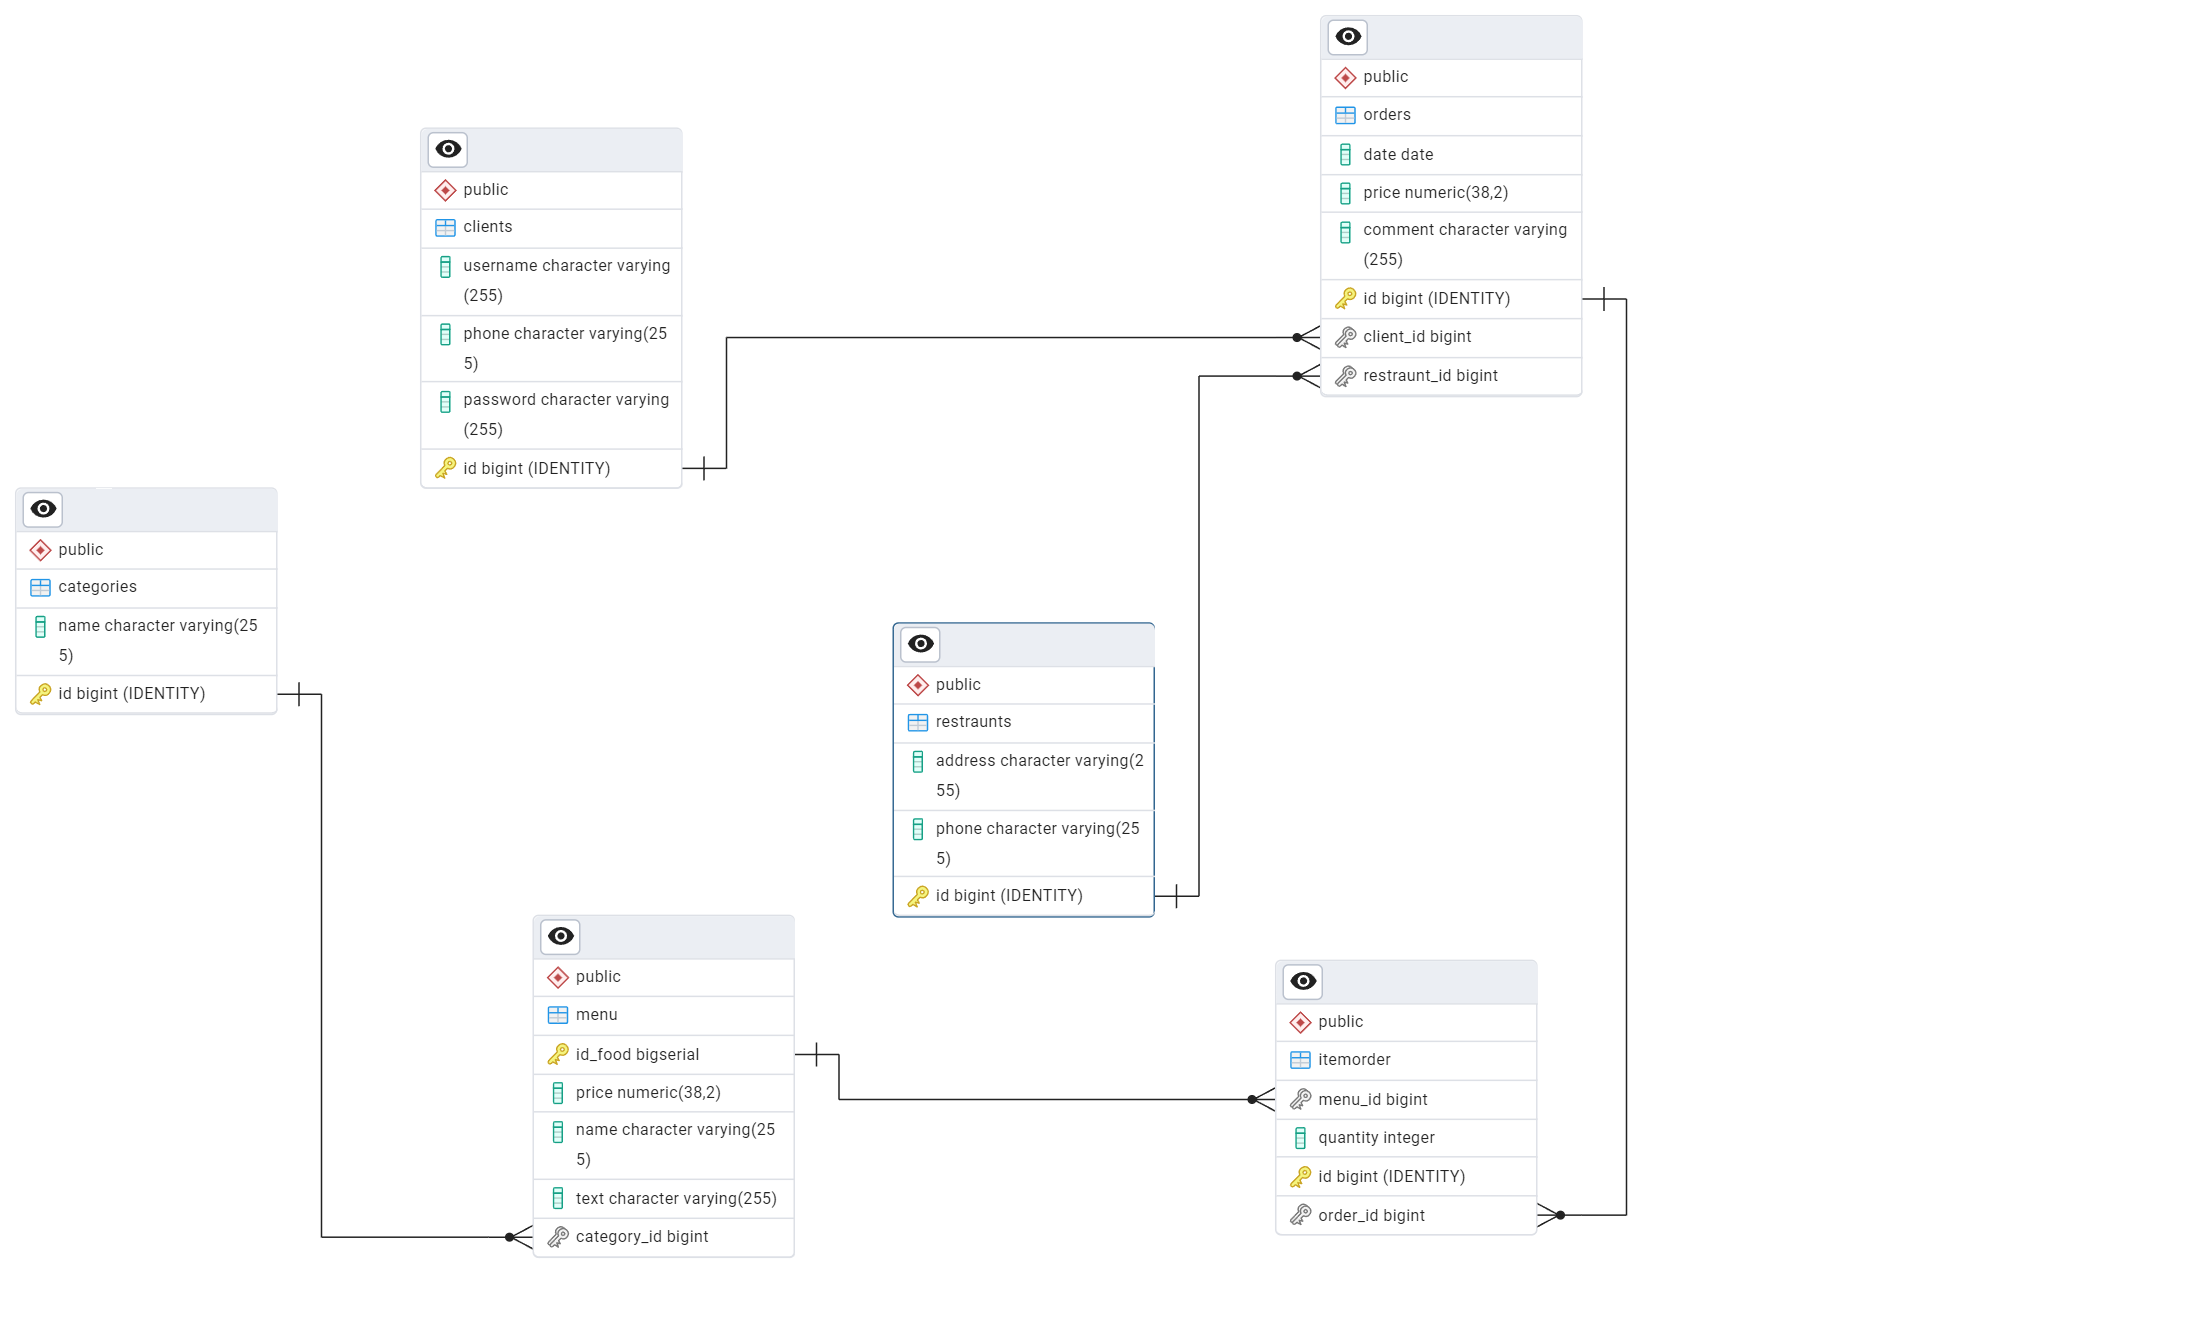
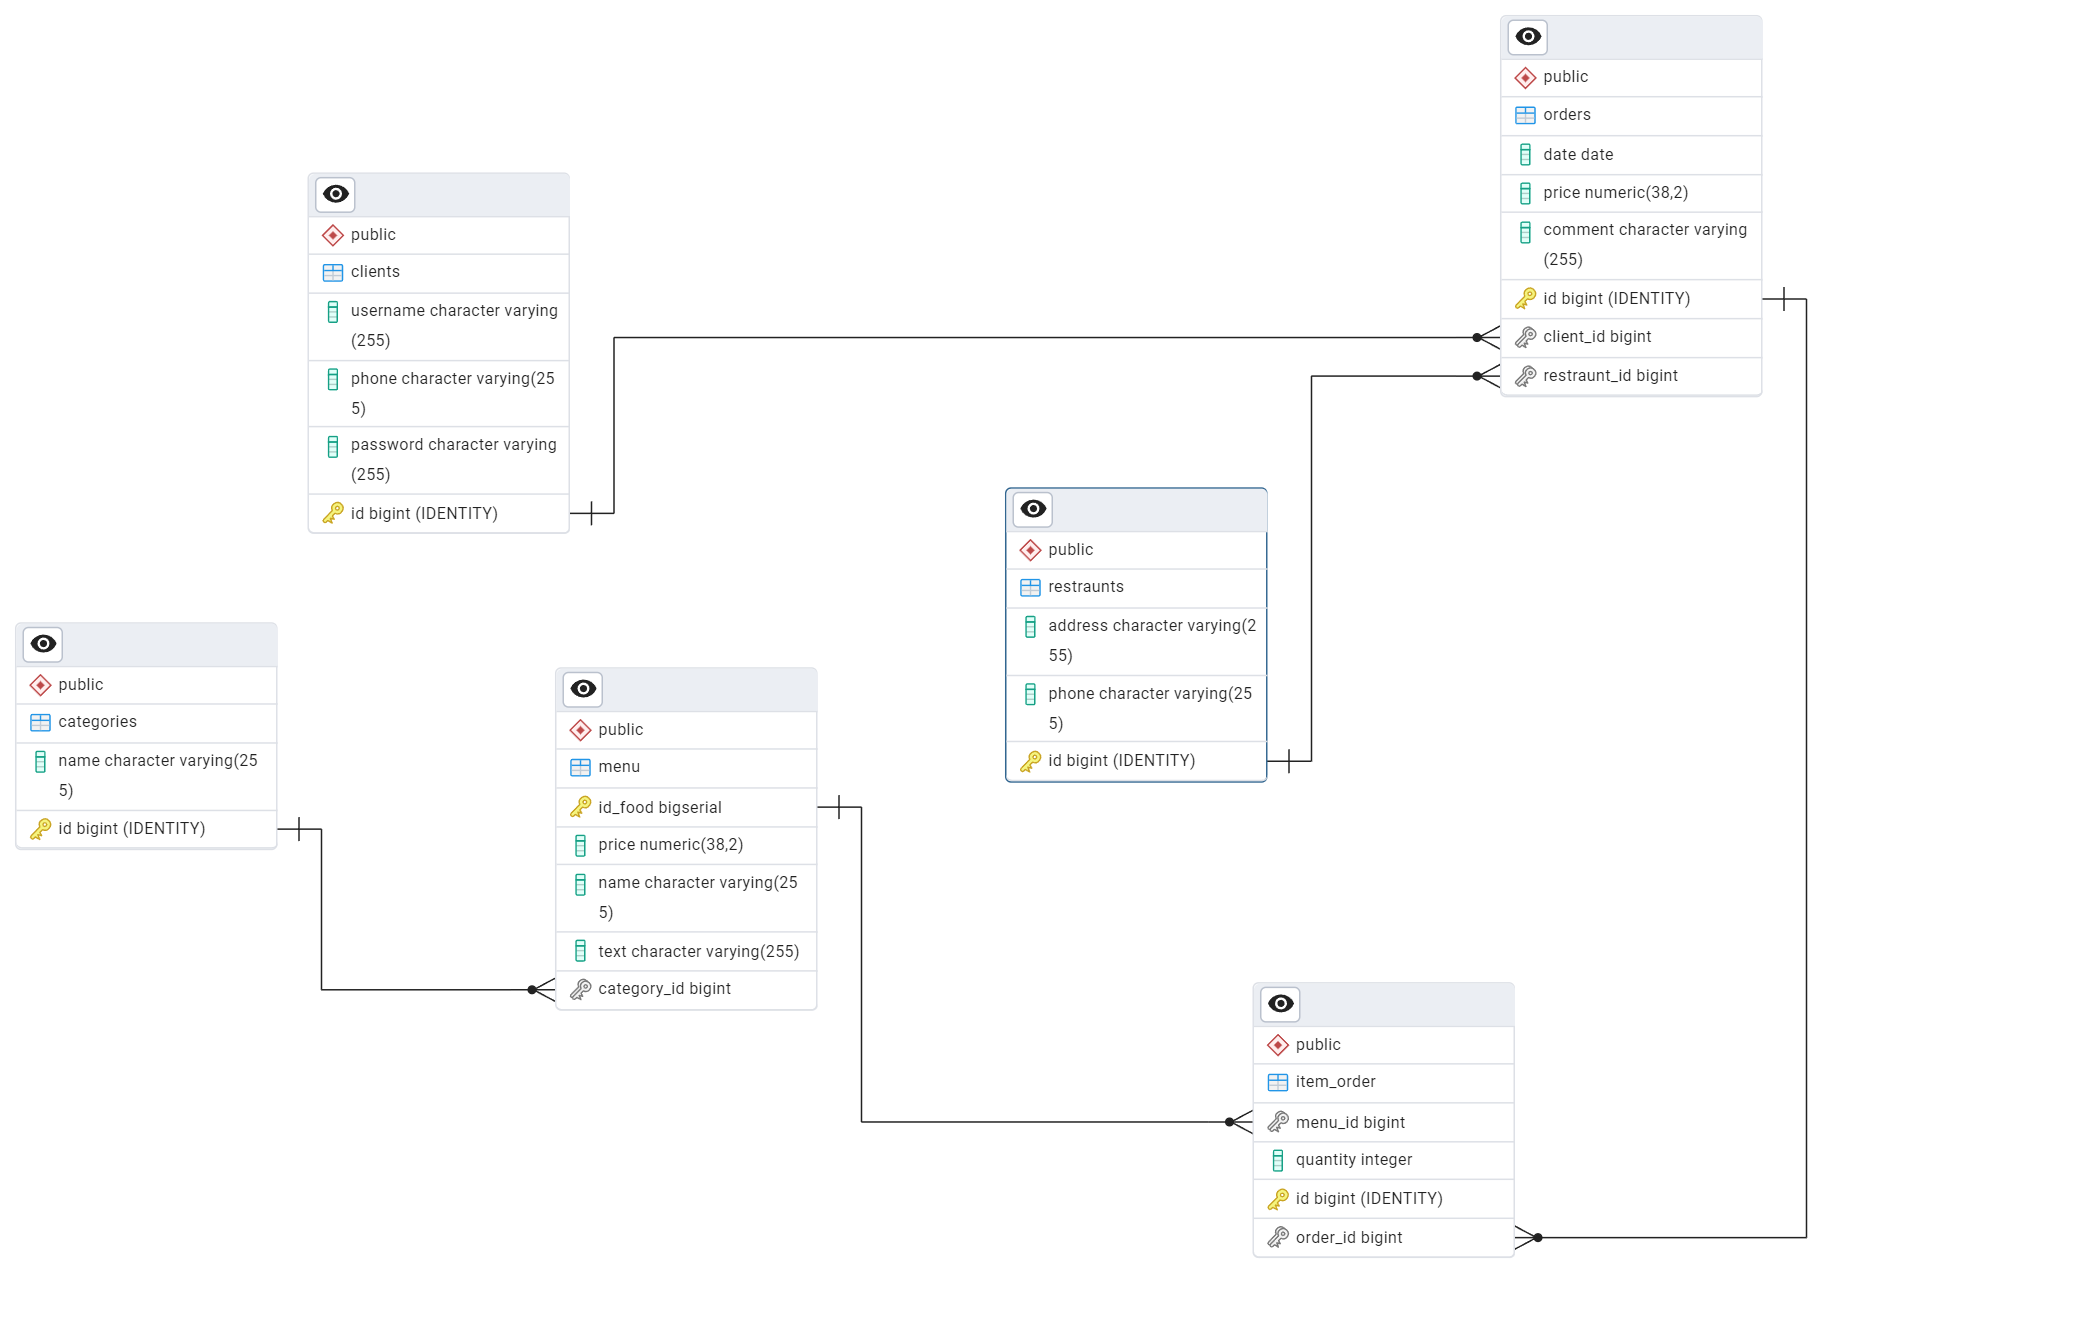
add db

diff --git a/src/main/java/org/example/apporders/models/OrderItem.java b/src/main/java/org/example/apporders/models/OrderItem.java
@@ -12,7 +12,7 @@ import java.math.BigDecimal;
 @Data
 @NoArgsConstructor
 @AllArgsConstructor
-@Table(name = "itemorder")
+@Table(name = "item_order")
 public class OrderItem {
 
     @Id
